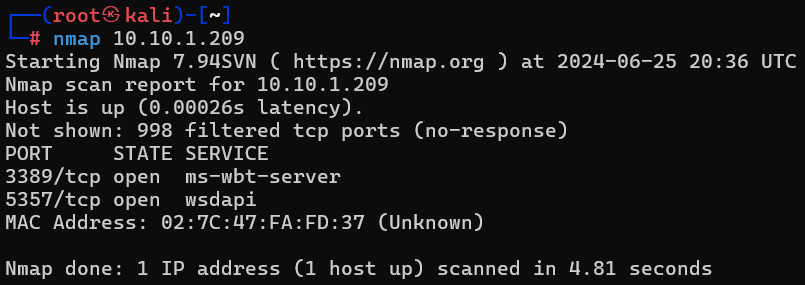
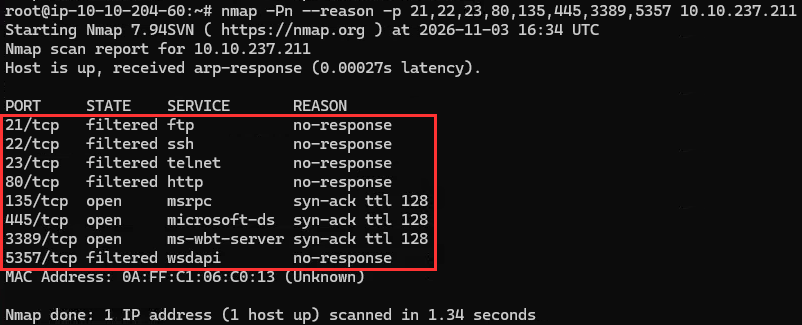
Nmap CHanges

Changed region(s): [[0.0, 0.0, 0.9975, 0.8702], [0.0, 0.8982, 0.904, 1.0]]

diff --git a/IntroClassFiles/Tools/IntroClass/Nmap/Nmap.md b/IntroClassFiles/Tools/IntroClass/Nmap/Nmap.md
@@ -79,7 +79,7 @@ You can hit the spacebar to see status.
 
 Once complete, your output should look like this:
 
-<img width="461" height="329" alt="nmap_fw_on" src="https://github.com/user-attachments/assets/fe0eecfc-1fb7-4db6-a506-7a63466aee34" />
+![image](/IntroClassFiles/Tools/IntroClass/Nmap/attachments/nmap_nmapscanwfirewall.png)
 
 Please note the open ports. These are ports and services that an attacker could use to authenticate to your system or attack if an exploit is available. 
 <br>
@@ -92,13 +92,13 @@ Now, using the same process as before, let’s disable the **Windows** firewall 
 netsh advfirewall set allprofiles state off
 ```
 
-<img width="462" height="346" alt="nmap_fw_off" src="https://github.com/user-attachments/assets/57c7c36d-cf84-4740-bdea-2fadf2be3eac" />
-
 Now, run the command again:
 
 ```bash
 nmap -Pn --reason -p 21,22,23,80,135,445,3389,5357 [Your Windows IP]
 ```
+
+![image](/IntroClassFiles/Tools/IntroClass/Nmap/attachments/nmap_turnbackon.png)
 
 >[!IMPORTANT]
 >
@@ -108,7 +108,8 @@ nmap -Pn --reason -p 21,22,23,80,135,445,3389,5357 [Your Windows IP]
 >
 >You can just hit the up arrow key to view previously run commands.  
 
-As we can see, there is one more service shown open on port **5357** and also, the other **985** ports are shown as directly as **closed**, not **filtered**
+As we can see, the ports that previously showed "filtered", now show "closed".
+
 <hr>
 
 ## Step 3: Why Is This Important?
